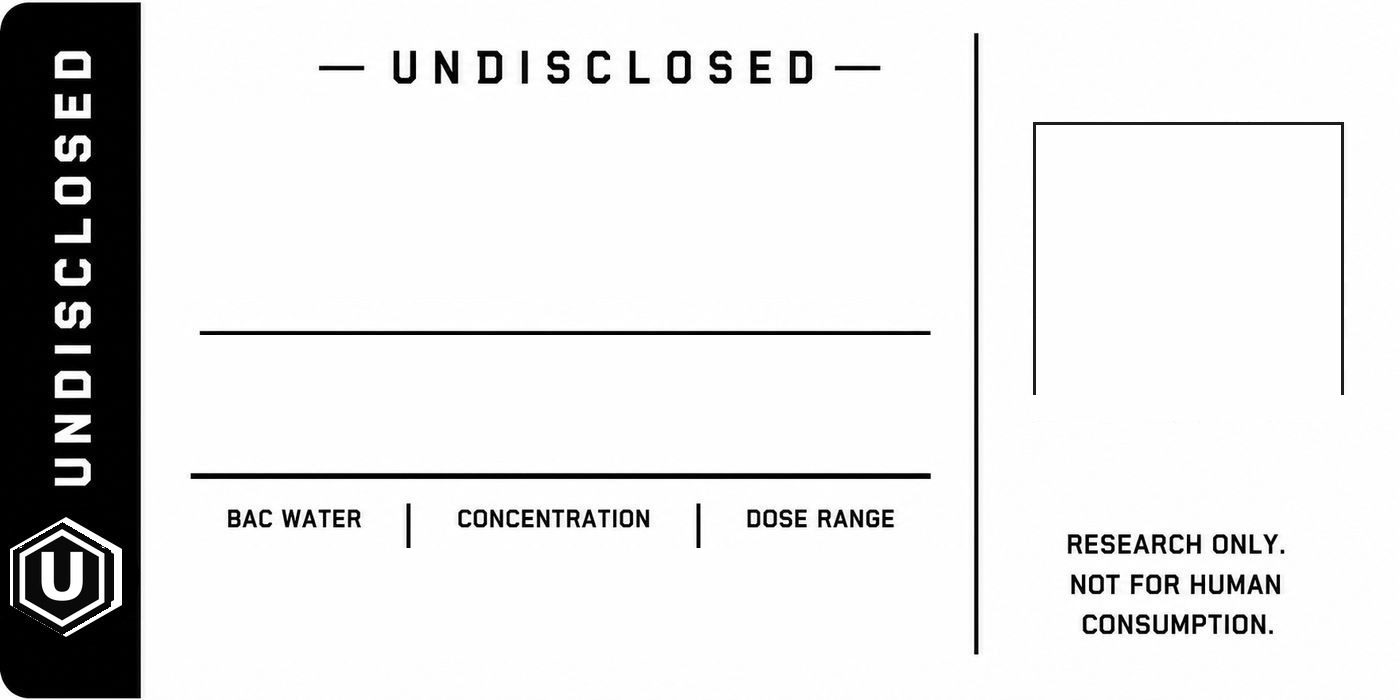
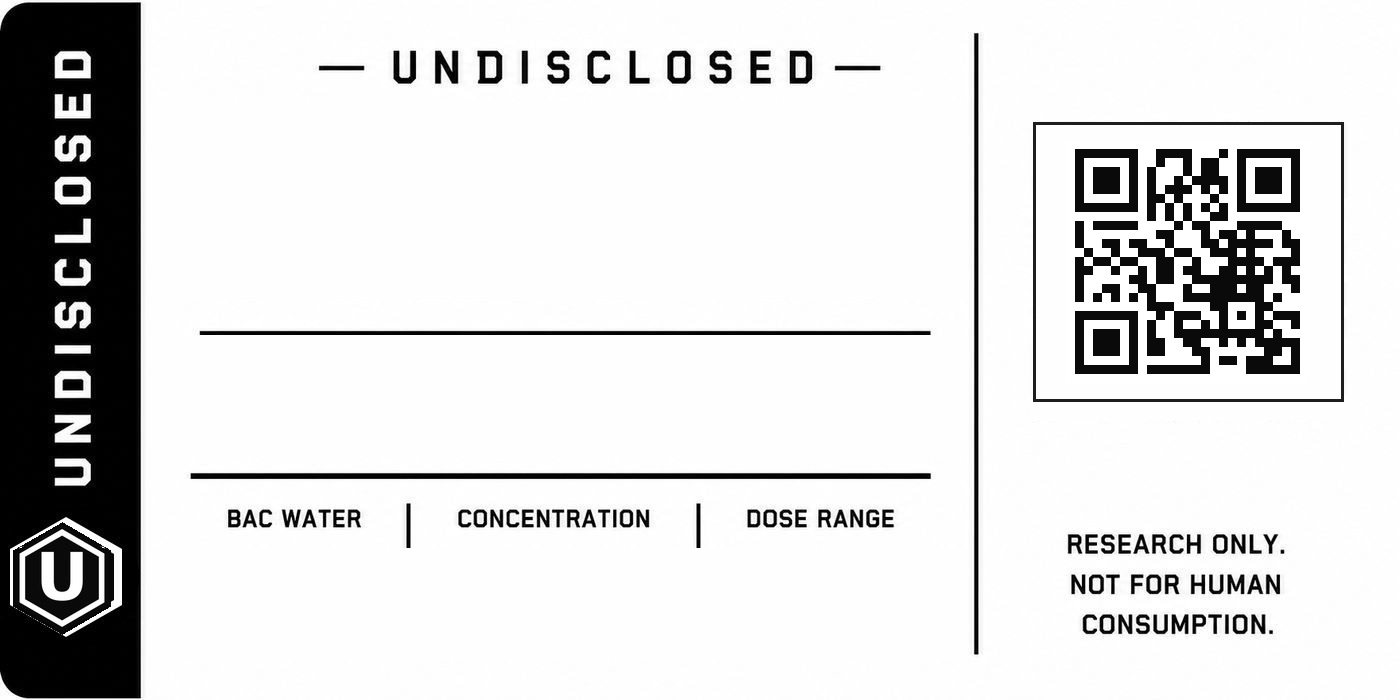
Add wellpept.com QR to blank 3 mL labels
Bake and overlay a scannable site QR on the 40×20 mm blank wrap so
the code always opens https://www.wellpept.com.

Changed region(s): [[0.7679, 0.21, 0.9521, 0.54], [0.7371, 0.57, 0.9521, 0.6]]

diff --git a/src/utils/vialArt.js b/src/utils/vialArt.js
@@ -1624,12 +1624,15 @@ function drawLabelSpineMark(ctx, cx, cy, r) {
 /**
  * Draw a blank wrap from the folder photo at the vial’s physical label size.
  * 3 mL → 40×20 mm (2:1), using undisclosed-label-blank (U mark, no peptide fill).
+ * QR always encodes the public site (or an explicit qrPayload / coaUrl).
  */
 export function drawBlankLabelFromImage(canvas, options = {}) {
   const {
     vialMl = 3,
     blankLabelImage = null,
     size = "md",
+    qrPayload = "",
+    coaUrl = "",
   } = options;
   const spec = labelSpecForVialMl(vialMl);
   // Screen CSS uses true mm; canvas keeps print-quality pixels (≈300 dpi).
@@ -1661,9 +1664,34 @@ export function drawBlankLabelFromImage(canvas, options = {}) {
 
   if (blankLabelImage && blankLabelImage.width) {
     ctx.drawImage(blankLabelImage, 0, 0, printW, printH);
+    // Overlay scannable site QR into the right-column frame on the folder art.
+    // Source art is 1400×700; QR frame ≈ (1033,122)–(1343,401).
+    const sx = printW / 1400;
+    const sy = printH / 700;
+    const qbox = {
+      x: 1033 * sx,
+      y: 122 * sy,
+      w: (1343 - 1033) * sx,
+      h: (401 - 122) * sy,
+    };
+    const inset = Math.min(qbox.w, qbox.h) * 0.08;
+    const payload = qrPayloadFromOptions({ qrPayload, coaUrl });
+    drawQrCode(
+      ctx,
+      qbox.x + inset,
+      qbox.y + inset,
+      Math.min(qbox.w, qbox.h) - inset * 2,
+      "site",
+      false,
+      payload
+    );
   } else {
-    // Fallback: procedural blank chrome at 2:1
-    paintLabelTemplate(ctx, { w: printW, h: printH }, { ...options, blank: true });
+    // Fallback: procedural blank chrome at 2:1 (includes site QR)
+    paintLabelTemplate(ctx, { w: printW, h: printH }, {
+      ...options,
+      blank: true,
+      qrPayload: qrPayload || SITE_QR_URL,
+    });
   }
   return canvas.toDataURL("image/png");
 }
@@ -1948,23 +1976,29 @@ function paintLabelTemplate(ctx, dims, options = {}) {
   roundRect(ctx, qrX, qrY, qrBox, qrBox, Math.max(4, qrBox * 0.04));
   ctx.stroke();
 
-  if (!blank) {
+  // Always print a scannable QR — blank wraps point at the public site.
+  {
     const qrInset = qrBox * 0.08;
-    const payload = qrPayloadFromOptions({ qrPayload, coaUrl });
+    const payload = qrPayloadFromOptions({
+      qrPayload: blank ? qrPayload || SITE_QR_URL : qrPayload,
+      coaUrl: blank ? "" : coaUrl,
+    });
     drawQrCode(
       ctx,
       qrX + qrInset,
       qrY + qrInset,
       qrBox - qrInset * 2,
-      qrSeedFromOptions({
-        name,
-        mass,
-        unit,
-        bacWater,
-        concentration,
-        doseRange,
-        sku,
-      }),
+      blank
+        ? "site"
+        : qrSeedFromOptions({
+            name,
+            mass,
+            unit,
+            bacWater,
+            concentration,
+            doseRange,
+            sku,
+          }),
       false,
       payload
     );

diff --git a/src/components/PeptideCalculator.jsx b/src/components/PeptideCalculator.jsx
@@ -523,8 +523,8 @@ export default function PeptideCalculator({
               </div>
               <p className="meta">
                 {Number(vialMl) === 3
-                  ? "3 mL vial wrap · 40 × 20 mm. Folder art with peptide fields cleared; U mark only."
-                  : "Empty clinical wrap template. Brand chrome only; fill fields at the bench."}
+                  ? "3 mL vial wrap · 40 × 20 mm. Peptide fields cleared; U mark; QR → wellpept.com."
+                  : "Empty clinical wrap template. Brand chrome only; QR → wellpept.com."}
               </p>
               <div className="calc-label-stage">
                 <LabelTemplate

diff --git a/src/components/LabelTemplate.jsx b/src/components/LabelTemplate.jsx
@@ -6,6 +6,7 @@ import {
   loadWpMark,
   loadBlankLabelImage,
   labelSpecForVialMl,
+  SITE_QR_URL,
 } from "../utils/vialArt";
 
 export default function LabelTemplate({
@@ -72,7 +73,7 @@ export default function LabelTemplate({
         vialMl,
         wpMark,
         blankLabelImage,
-        qrPayload: blank ? "" : qrPayload,
+        qrPayload: blank ? qrPayload || SITE_QR_URL : qrPayload,
         coaUrl: blank ? "" : coaUrl,
         blank,
       });
